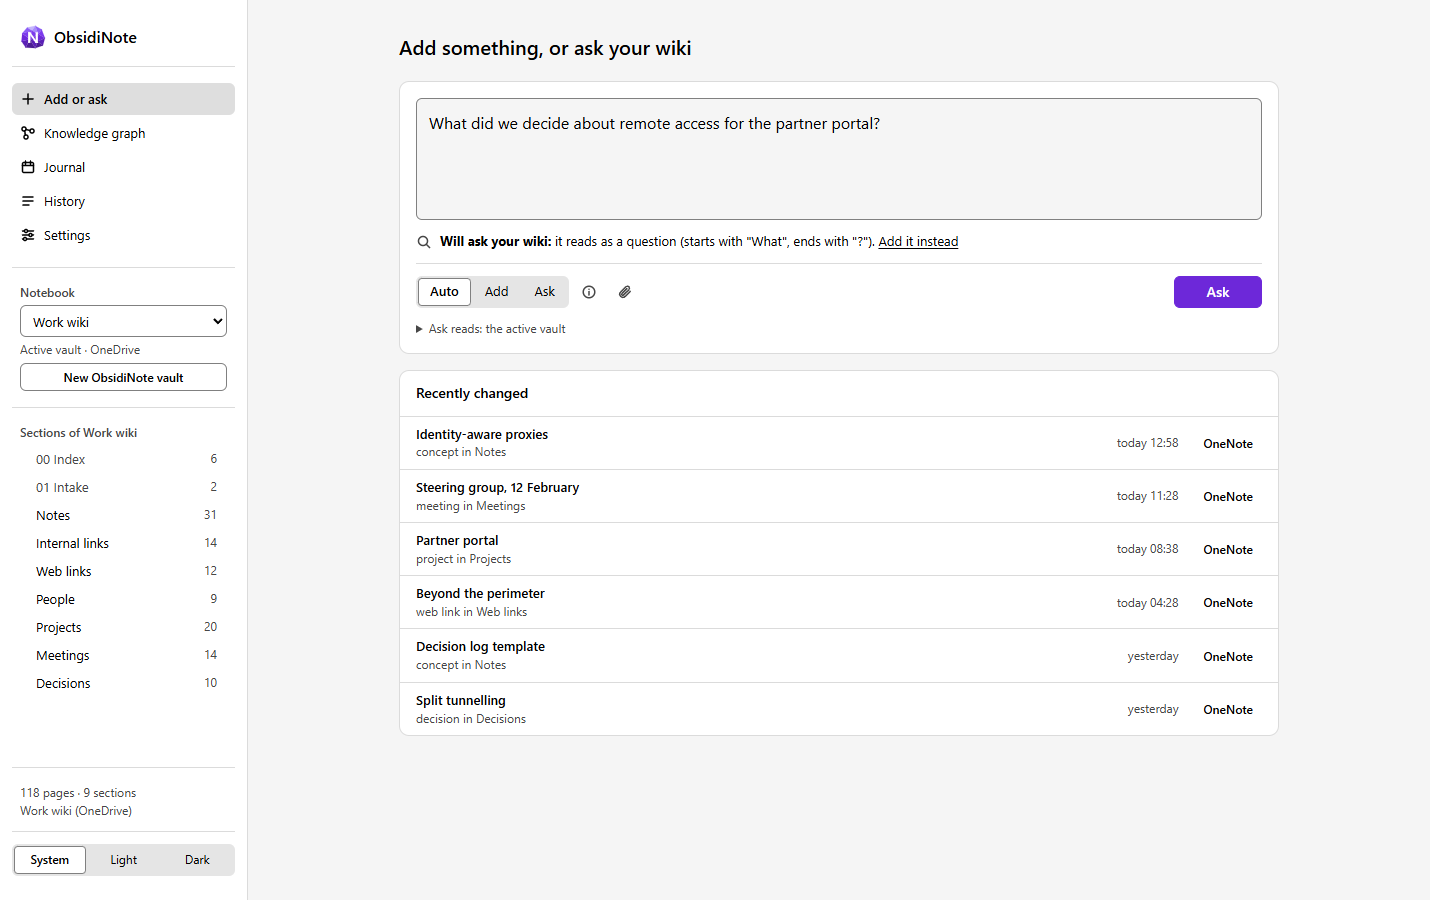
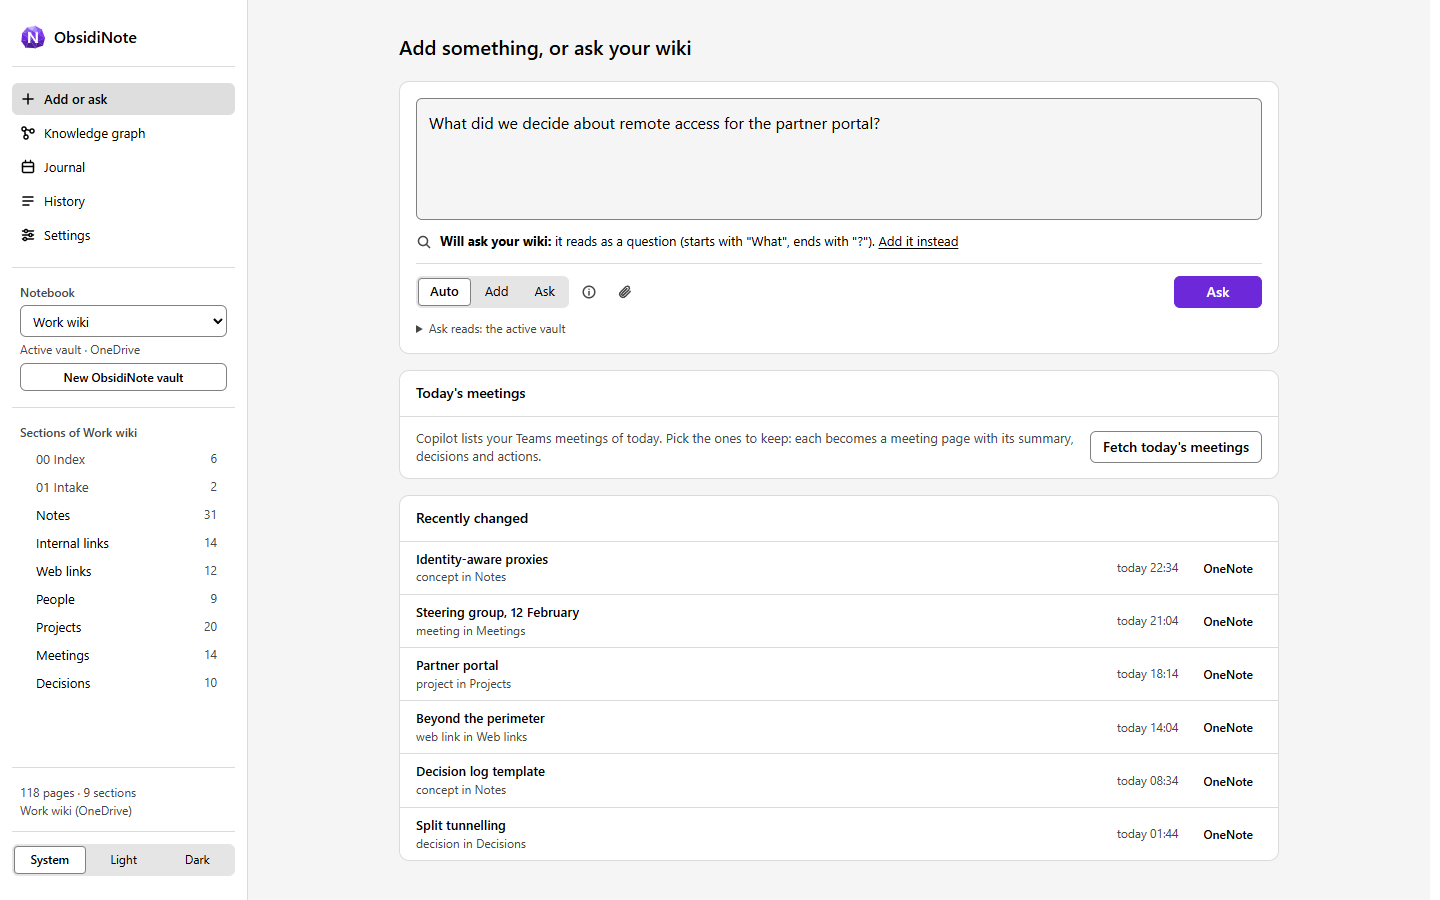
README: Today's meetings, fresh screenshots
- New section "Today's meetings" with its own screenshot
  (docs/screenshots/meetings.png); the intro and History mention
  meetings; Settings sits in the menu.
- All README screenshots taken again from the current interface with
  invented data (scripts/readme-shots.mjs: a meetings shot, a queue of
  submit answers for it, the stand-in version v0.12.9).

diff --git a/README.md b/README.md
@@ -4,7 +4,7 @@
 
 **Our own web interface on top of OneNote: a personal wiki that files and links itself.** ObsidiNote is a small web portal that you host yourself. It runs on your own PC (a local server that only this PC can reach, opened in its own Edge window), and it uses a OneNote notebook of yours as its data store. OneNote holds the pages; ObsidiNote is the interface you work in.
 
-In that interface you paste a link, a mail, a file or a few lines. Microsoft 365 Copilot decides what it is, which topics it belongs to and which of your pages it relates to, and ObsidiNote writes it as a page into your notebook through desktop OneNote. Ask a question and the answer cites your own pages. A knowledge graph shows how everything connects. The pages stay ordinary OneNote pages: you can still open, read and edit them in OneNote itself.
+In that interface you paste a link, a mail, a file or a few lines, or pick today's Teams meetings. Microsoft 365 Copilot decides what it is, which topics it belongs to and which of your pages it relates to, and ObsidiNote writes it as a page into your notebook through desktop OneNote. Ask a question and the answer cites your own pages. A knowledge graph shows how everything connects. The pages stay ordinary OneNote pages: you can still open, read and edit them in OneNote itself.
 
 ![The knowledge graph: pages as dots in topic areas, links as lines, a page pointed at with its preview](docs/screenshots/map.png)
 
@@ -65,7 +65,7 @@ Next starts continue in that vault. To use a vault made on another PC, open its 
 ## Using ObsidiNote
 
 ### Add something, or ask
-![Home: one box with Auto, Add and Ask; the box says it will ask, and why](docs/screenshots/home.png)
+![Home: one box with Auto, Add and Ask; the box says it will ask, and why; under it Today's meetings and the recently changed pages](docs/screenshots/home.png)
 
 One box does both. In **Auto** it says before you send whether it will add or ask, and why; switch to **Add** or **Ask** yourself any time (`Ctrl+1`, `Ctrl+2`). `Enter` sends, `Shift+Enter` adds a line. The paperclip next to the mode switch adds a file.
 
@@ -79,7 +79,11 @@ One box does both. In **Auto** it says before you send whether it will add or as
 - A **journal entry** (what happened, what you did or decided) goes into that day's journal page, one page per day; its Undo takes out only that entry.
 - When a page with the same title and type is already there, nothing is added: **Open it**, or **Add anyway** to add yours beside it.
 - When Copilot needs longer than about two minutes (a large SharePoint page), nothing is lost: the item waits under **Waiting for Copilot** and **Check for the answer** finishes it later.
-- **Today's meetings** (under the box): **Fetch today's meetings** has Copilot list your Teams meetings of today and say which ones it can read (transcript, recap or notes). Tick the ones to keep and press **Add**. Each becomes a meeting page with attendees, summary, decisions and actions, added like any other Add, so it is linked, listed in History and can be undone. Nothing is written before **Add**.
+
+### Today's meetings
+![Today's meetings: the day's Teams meetings with what Copilot can read of each; one added, one waiting for Copilot](docs/screenshots/meetings.png)
+
+Under the box, **Fetch today's meetings** has Copilot list your Teams meetings of today (with Work IQ, so it sees your own calendar) and say which ones it can read: a transcript, a Copilot recap or meeting notes. Those are ticked for you. Press **Add**: each ticked meeting becomes a page under **Meetings** with its attendees, summary, decisions and actions. Each one is added like any other Add, so it is linked to your other pages, listed in **History** and can be undone. Each row says where it is ("reading", "adding", "Added as ...", or why it was not added). Nothing is written before you press **Add**.
 
 ### Ask
 ![Ask: the answer with numbered citations, its actions, and the pages it came from with their share of the answer](docs/screenshots/ask.png)
@@ -119,7 +123,7 @@ Your journal, one page per day: everything Copilot files as a journal entry (wha
 
 ### More
 - **Find** (`Ctrl+K`): jump to any page or topic.
-- **History**: everything Add did, with **Open** and **Undo**.
+- **History**: everything Add did (meetings included), with **Open** and **Undo**.
 - **Web links** (link pages, Ask's sources, links in a page's text) open in a new tab of your default browser; OneNote links open OneNote.
 - **Export as Markdown**: one page, a topic or the whole vault as Markdown files with `[[links]]`, for any Markdown editor. It goes to your downloads; nothing is kept.
 - **Several vaults**: the **Notebook** switcher in the side bar lists your vaults and other open notebooks. One vault is active and written to; everything else is only read.
@@ -151,7 +155,7 @@ If an update cannot be installed, ObsidiNote says so and starts the version you 
 Everything ObsidiNote knows lives in your own OneNote notebook: your pages, the intake, the index and its links. ObsidiNote keeps no copy on disk and reads the notebook while it runs, so the notebook's own protection (OneDrive or SharePoint, your organisation's labels and retention) covers all of it. Text you add is sent to Microsoft 365 Copilot in your own browser session; nothing goes to any other service. On disk ObsidiNote keeps only a small settings file, backups of its own program files, and logs without content, in `%LOCALAPPDATA%\ObsidiNote`. The Edge profile ObsidiNote uses for Copilot lives there too.
 
 ## Settings and options
-**Settings** (side bar) are kept in the vault, so every PC that opens it uses the same:
+**Settings** (in the menu) are kept in the vault, so every PC that opens it uses the same:
 - which company addresses count as internal links (Microsoft 365, company SaaS tenants and hosts with your company's name already do);
 - how many related pages Add links a new page to (3), how many pages Ask reads (20), after how many days Ask offers to update a link page (90);
 - whether Ask includes archived pages, and how the graph opens (Topics or Sources, "Labels: hubs only", archived pages);
